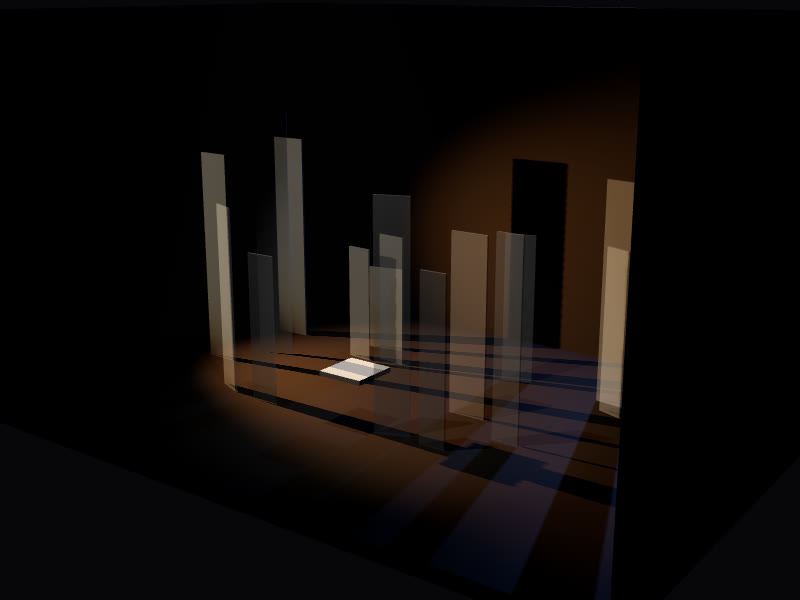
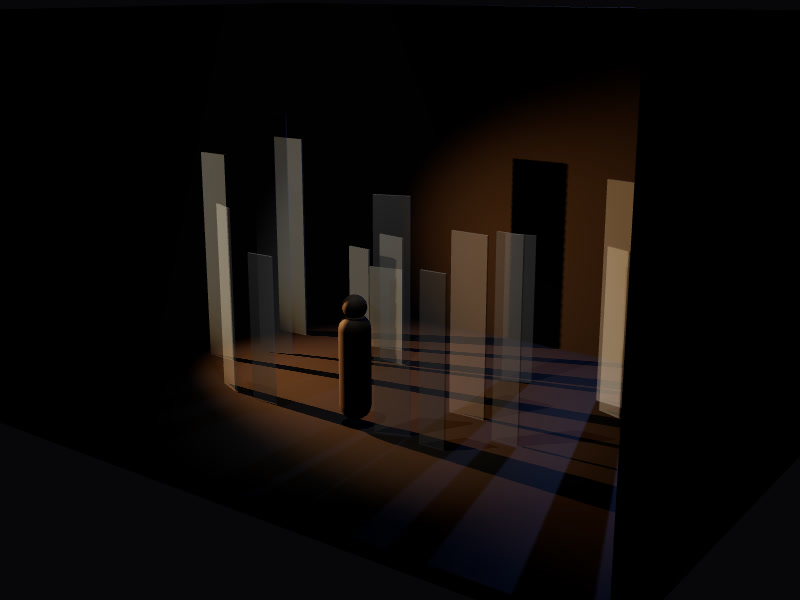
S05-04：1回目審査（5.33）の指摘を反映（コントラスト・タップ領域・スマホの重なり・画像比率、カメラが模型の外に出ない制限とキー操作、照明卓らしい時間差のキュー、ピンの先に人の影、作品ごとの見出し）
Claude-Session: https://claude.ai/code/session_01BwmUGTgfPEj1Tu5124aDtq

diff --git a/studio/projects/S05-04-lighting-site/site/viewer.js b/studio/projects/S05-04-lighting-site/site/viewer.js
@@ -8,7 +8,9 @@ export function mountViewer(el, { set = 'glass', cues, start = 0, still = false 
   const scene = new THREE.Scene(); scene.background = new THREE.Color(0x07070a); scene.fog = new THREE.Fog(0x07070a, 9, 22);
   const cam = new THREE.PerspectiveCamera(30, 1, .1, 60); cam.position.set(5.5, 3.6, 7.5);
   const ctl = new OrbitControls(cam, R.domElement); ctl.target.set(0, .9, 0); ctl.enableDamping = true; ctl.enablePan = false;
-  ctl.minDistance = 6; ctl.maxDistance = 13; ctl.maxPolarAngle = 1.45; ctl.autoRotate = !matchMedia('(prefers-reduced-motion: reduce)').matches; ctl.autoRotateSpeed = .45;
+  ctl.minDistance = 6; ctl.maxDistance = 13; ctl.minPolarAngle = .5; ctl.maxPolarAngle = 1.4; ctl.minAzimuthAngle = -.9; ctl.maxAzimuthAngle = .9;
+  ctl.autoRotate = !matchMedia('(prefers-reduced-motion: reduce)').matches; ctl.autoRotateSpeed = .45;
+  R.domElement.tabIndex = 0; R.domElement.setAttribute('aria-label', '舞台模型。矢印キーまたはドラッグで回せます'); ctl.listenToKeyEvents(R.domElement); ctl.keyRotateSpeed = 1.2;
   // 模型の箱：黒い床と三方の壁（手前は開いた断面）
   const box = new THREE.MeshStandardMaterial({ color: 0x1b1a19, roughness: .85 });
   const floor = new THREE.Mesh(new THREE.BoxGeometry(6, .12, 4.2), new THREE.MeshStandardMaterial({ color: 0x24211e, roughness: .6 })); floor.position.y = -.06; floor.receiveShadow = true; scene.add(floor);
@@ -19,7 +21,7 @@ export function mountViewer(el, { set = 'glass', cues, start = 0, still = false 
   let r = 7; const rnd = () => (r = (r * 16807) % 2147483647) / 2147483647;
   if (set === 'glass') { const gm = new THREE.MeshStandardMaterial({ color: 0xcfdbe4, roughness: .1, transparent: true, opacity: .35 });
     for (let i = 0; i < 16; i++) { const h = .8 + rnd() * 1.6; add(new THREE.BoxGeometry(.16 + rnd() * .2, h, .02), gm, (rnd() - .5) * 4.6, h / 2, -1.6 + rnd() * 2.4, (rnd() - .5) * .9); }
-    add(new THREE.BoxGeometry(.4, .04, .4), white, 0, .45, .6); }
+    }
   if (set === 'stairs') { for (let i = 0; i < 7; i++) add(new THREE.BoxGeometry(2.4, .22 * (i + 1), .42), white, -.6, .11 * (i + 1), -1.7 + i * .42 - 1.0 + 1.0); add(new THREE.BoxGeometry(.06, 2.6, .06), white, 1.8, 1.3, -1.2); add(new THREE.BoxGeometry(1.2, .06, .9), white, 1.6, .9, .4); }
   if (set === 'gate') { add(new THREE.BoxGeometry(.3, 2.6, .3), white, -1.1, 1.3, -.9); add(new THREE.BoxGeometry(.3, 2.6, .3), white, 1.1, 1.3, -.9); add(new THREE.BoxGeometry(3.0, .22, .4), white, 0, 2.55, -.9); add(new THREE.BoxGeometry(2.6, .14, .3), white, 0, 2.15, -.9);
     for (let i = 0; i < 9; i++) add(new THREE.BoxGeometry(.5, .04, .5), white, (rnd() - .5) * 4, .02, (rnd() - .2) * 2.4, rnd()); }
@@ -27,14 +29,23 @@ export function mountViewer(el, { set = 'glass', cues, start = 0, still = false 
   const mk = (pos, tgt, color, angle) => { const l = new THREE.SpotLight(color, 0, 0, angle, .55, 2); l.position.set(...pos); l.target.position.set(...tgt); l.castShadow = true; l.shadow.mapSize.set(1024, 1024); l.shadow.bias = -.0004; scene.add(l, l.target); return l; };
   const L = { top: mk([0, 5.5, 1.5], [0, 0, -.2], 0xfff1df, .42), sideW: mk([-5, 2.2, .6], [0, .8, -.6], 0xffb46e, .42), sideC: mk([5, 2.6, -.4], [0, .8, -.6], 0x9fb9e8, .42), backL: mk([0, 4.2, -5], [0, .4, .4], 0x8fb0ff, .5), pin: mk([.6, 6, 3], [0, .4, .6], 0xffe6c8, .07) };
   scene.add(new THREE.AmbientLight(0x404050, .25));
-  const cur = {}, from = {}; let to = cues[start].v, t0 = 0, tween = 1;
+  // ピンスポットが当たる位置に立つ人のシルエット（最後のキューで「一人を立たせる」）
+  const fig = new THREE.MeshStandardMaterial({ color: 0x2b2826, roughness: .7 }); const P = new THREE.Group();
+  const body = new THREE.Mesh(new THREE.CapsuleGeometry(.13, .62, 6, 16), fig); body.position.y = .49; const head = new THREE.Mesh(new THREE.SphereGeometry(.1, 20, 14), fig); head.position.y = .98;
+  P.add(body, head); P.traverse(o => { if (o.isMesh) o.castShadow = o.receiveShadow = true; }); P.position.set(0, 0, .6); scene.add(P);
+  const cur = {}, from = {}; let to = cues[start].v, t0 = 0, tween = 1; const KEYS = Object.keys(L);
   for (const k in L) cur[k] = to[k] || 0;
   const apply = () => { for (const k in L) L[k].intensity = cur[k]; };
   const setCue = (i) => { for (const k in L) from[k] = cur[k]; to = cues[i].v; t0 = performance.now(); tween = 0; };
   const resize = () => { const w = el.clientWidth, h = el.clientHeight; R.setSize(w, h, false); cam.aspect = w / h; cam.position.setLength(w < h ? 12 : 9.5);
     if (w > 900 && !still) cam.setViewOffset(w, h, -w * .17, 0, w, h); else if (w < h) cam.setViewOffset(w, h, 0, h * .12, w, h); else cam.clearViewOffset(); cam.updateProjectionMatrix(); };
   new ResizeObserver(resize).observe(el); resize();
-  const loop = (now) => { if (tween < 1) { tween = Math.min(1, (now - t0) / 700); const e = 1 - Math.pow(1 - tween, 3); for (const k in L) cur[k] = from[k] + ((to[k] || 0) - from[k]) * e; } apply(); ctl.update(); R.render(scene, cam); if (!still) requestAnimationFrame(loop); };
+  const loop = (now) => { if (tween < 1) { let done = true;
+      // 照明卓のように：上げは 1.2 秒、下げは 0.8 秒。灯体ごとに 120ms ずつずらす
+      KEYS.forEach((k, i) => { const up = (to[k] || 0) > from[k]; const d = up ? 1200 : 800; const p = Math.min(1, Math.max(0, (now - t0 - i * 120) / d)); if (p < 1) done = false;
+        const e = up ? 1 - Math.pow(1 - p, 3) : p * p * (3 - 2 * p); cur[k] = from[k] + ((to[k] || 0) - from[k]) * e; }); if (done) tween = 1; }
+    const az = ctl.getAzimuthalAngle(); if (az > .82) ctl.autoRotateSpeed = Math.abs(ctl.autoRotateSpeed); if (az < -.82) ctl.autoRotateSpeed = -Math.abs(ctl.autoRotateSpeed);
+    apply(); ctl.update(); R.render(scene, cam); if (!still) requestAnimationFrame(loop); };
   apply(); requestAnimationFrame(loop);
   return { setCue, render: () => { apply(); ctl.update(); R.render(scene, cam); } };
 }

diff --git a/studio/projects/S05-04-lighting-site/site/style.css b/studio/projects/S05-04-lighting-site/site/style.css
@@ -5,7 +5,7 @@ a{color:inherit;text-decoration:none}
 .mincho{font-family:"Shippori Mincho",serif;font-weight:600}
 header{position:fixed;inset:0 0 auto 0;z-index:10;display:flex;justify-content:space-between;align-items:center;padding:20px clamp(16px,5vw,56px);background:linear-gradient(#07070acc,#07070a00)}
 header .logo{font-family:"Shippori Mincho",serif;font-weight:600;letter-spacing:.2em;font-size:18px}
-header nav{display:flex;gap:clamp(14px,3vw,36px);font-size:13px;letter-spacing:.18em;color:var(--sub)}
+header nav{display:flex;gap:clamp(4px,2vw,28px);font-size:13px;letter-spacing:.18em;color:var(--sub)}
 header nav a[aria-current]{color:var(--ink)}
 header nav a:hover{color:var(--ink)}
 .stage{position:relative;height:100svh;min-height:560px}
@@ -23,19 +23,21 @@ section h2{font-size:clamp(26px,3.6vw,38px);letter-spacing:.12em;margin-bottom:1
 .lead{color:var(--sub);max-width:640px}
 .grid{display:grid;grid-template-columns:repeat(auto-fit,minmax(min(100%,320px),1fr));gap:clamp(20px,3vw,36px)}
 .work{display:block;border-top:1px solid var(--line);padding-top:18px}
-.work img{width:100%;aspect-ratio:4/3;object-fit:cover;background:#111;border-radius:2px;filter:saturate(.95)}
+.work img{width:100%;height:auto;aspect-ratio:4/3;object-fit:cover;background:#111;border-radius:2px;filter:saturate(.95)}
 .work h3{font-size:22px;letter-spacing:.1em;margin:14px 0 4px}
 .work .meta{font-size:13px;color:var(--sub);letter-spacing:.06em}
 dl.career{display:grid;grid-template-columns:7em 1fr;gap:10px 24px;max-width:760px}
 dl.career dt{color:var(--sub);font-variant-numeric:tabular-nums}
 .contact{display:grid;gap:18px;max-width:560px}
 .contact label{font-size:13px;color:var(--sub);letter-spacing:.12em;display:grid;gap:8px}
-.contact input,.contact textarea,.contact select{font:inherit;color:var(--ink);background:#ffffff06;border:1px solid var(--line);border-radius:4px;padding:12px 14px}
+.contact input,.contact textarea,.contact select{font:inherit;color:var(--ink);background:#ffffff06;border:1px solid #5f5850;border-radius:4px;padding:12px 14px}
 .contact button{justify-self:start;font:500 14px/1 "Noto Sans JP",sans-serif;letter-spacing:.2em;padding:16px 28px;border-radius:999px;border:0;background:var(--warm);color:#120d08;cursor:pointer}
 footer{border-top:1px solid var(--line);padding:32px clamp(16px,5vw,56px);font-size:12px;color:var(--sub);letter-spacing:.1em;display:flex;justify-content:space-between;flex-wrap:wrap;gap:8px}
-.note{font-size:12px;color:#6f675c;margin-top:2em}
-@media (max-width:640px){header nav{gap:14px;font-size:12px}.cues button{padding:11px 13px;font-size:12px}}
+.note{font-size:12px;color:#9a9285;margin-top:2em}
+@media (max-width:640px){header nav{gap:2px;font-size:12px}.stage .cap{bottom:156px}.cues button{padding:11px 13px;font-size:12px}}
 @media (prefers-reduced-motion:reduce){*{transition:none!important}}
 .stage::after{content:'';position:absolute;inset:auto 0 0 0;height:55%;background:linear-gradient(#07070a00,#07070ae6 70%);pointer-events:none}
 .stage .cap,.stage .cues{z-index:2}
 body.clean header,body.clean .cap,body.clean .cues,body.clean .stage::after,body.clean section,body.clean footer{display:none}
+header nav a{padding:12px 8px;display:inline-block}
+.stage canvas:focus-visible{outline:2px solid var(--cool);outline-offset:-4px}

diff --git a/studio/projects/S05-04-lighting-site/site/index.html b/studio/projects/S05-04-lighting-site/site/index.html
@@ -10,9 +10,9 @@
 <p class="lead" style="margin-top:1.2em"><a href="works.html" style="border-bottom:1px solid var(--line)">作品を見る →</a></p></section></main>
 <script type="module">
 import {mountViewer,CUES} from './viewer.js';
-const SETS={glass:['『硝子の庭』（灯守座／2026）の舞台模型。下のキューを押すと、本番と同じ順番で明かりが変わります。'],stairs:['『夜鳴きの館』（架空／2025）の階段の装置。キューで夕景から月光へ移ります。'],gate:['『鬼門の夜』（架空／2024）の門と散る紙片。ピンスポットで一人を立たせます。']};
+const SETS={glass:['『硝子の庭』（灯守座・2026）の舞台模型。下のキューを押すと、本番と同じ順番で明かりが変わります。','光は、<br>時間を描く'],stairs:['『夜鳴きの館』（2025）の階段の装置。キューで夕景から月光へ移ります。','夜鳴きの館'],gate:['『鬼門の夜』（2024）の門と散る紙片。最後のピンで一人を立たせます。','鬼門の夜']};
 const set=new URLSearchParams(location.search).get('set')||'glass';const s=SETS[set]?set:'glass';
-document.getElementById('desc').textContent=SETS[s][0];
+document.getElementById('desc').textContent=SETS[s][0];document.getElementById('ttl').innerHTML=SETS[s][1];
 const clean=new URLSearchParams(location.search).has('clean');if(clean)document.body.classList.add('clean');
 const q0=Math.min(3,Math.max(0,+(new URLSearchParams(location.search).get('cue')||0)));
 const v=mountViewer(document.getElementById('stage'),{set:s,cues:CUES,still:clean,start:q0});
